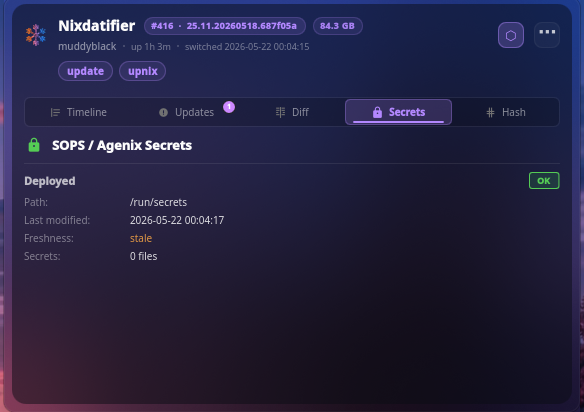
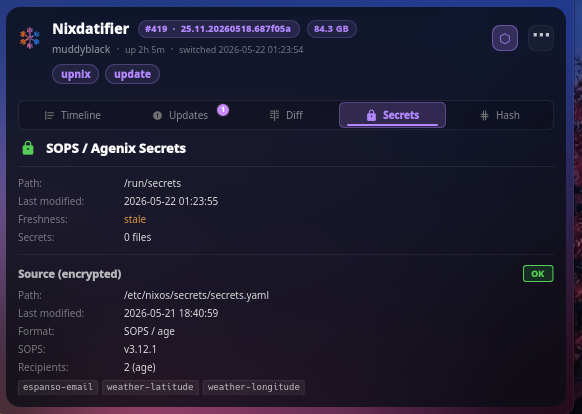
fix compact mode

diff --git a/package/contents/ui/CompactView.qml b/package/contents/ui/CompactView.qml
@@ -24,12 +24,9 @@ Item {
     required property bool compactShowBadge
     required property string iconStyle
 
-    readonly property bool logoIsMask: iconStyle !== "colored" || compactRoot.flakeUpdates.length > 0
-    readonly property bool logoUseImage: iconStyle === "colored" && compactRoot.flakeUpdates.length === 0
+    readonly property bool logoIsMask: iconStyle !== "colored"
+    readonly property bool logoUseImage: iconStyle === "colored"
     readonly property color logoColor: {
-        if (compactRoot.flakeUpdates.length > 0) {
-            return "#cc88ff";
-        }
         if (iconStyle === "white") {
             return "#ffffff";
         }
